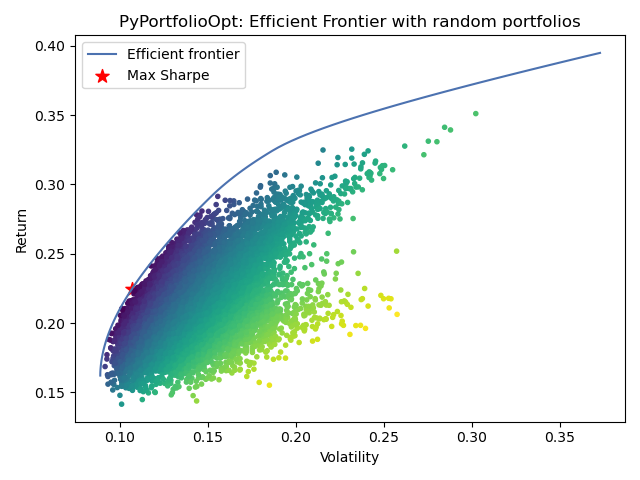
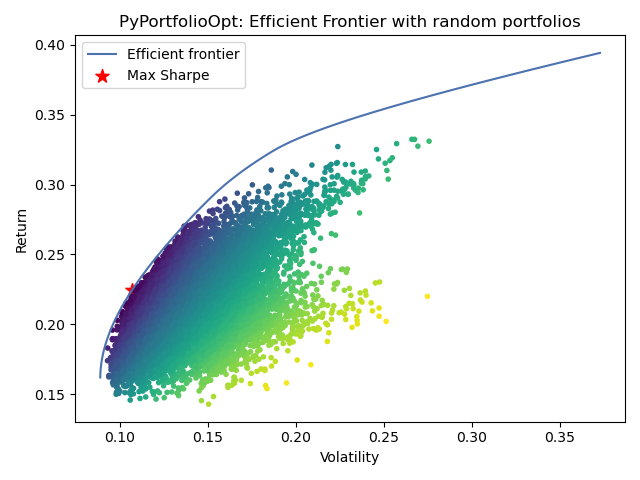
portfolio optimizer updates and fundamentals update for historical prices, gaps still need to be filled

diff --git a/dataAnalyzerService/masterAnalyzer.py b/dataAnalyzerService/masterAnalyzer.py
@@ -7,6 +7,7 @@ from dataAnalyzerService.stockstatcalculations import *
 import numpy as np
 import time
 import datetime
+import yfinance as yf
 
 finnhub_client = finnhub.Client(api_key=FINNHUB_API_KEY)
 
@@ -160,6 +161,104 @@ def build_master(ticker):
     print(quarterly_statementsDump)
     # print(quarterly_statementsDumpHtml)
     # print(type(quarterly_statementsDumpHtml))
+
+    statementDate19 = quarterly_statementsDump.iloc[0][0]
+    statementDate19datetime = datetime.datetime.strptime(statementDate19, '%Y-%m-%d')
+    statementDate18 = quarterly_statementsDump.iloc[0][1]
+    statementDate18datetime = datetime.datetime.strptime(statementDate18, '%Y-%m-%d')
+    statementDate17 = quarterly_statementsDump.iloc[0][2]
+    statementDate17datetime = datetime.datetime.strptime(statementDate17, '%Y-%m-%d')
+    statementDate16 = quarterly_statementsDump.iloc[0][3]
+    statementDate16datetime = datetime.datetime.strptime(statementDate16, '%Y-%m-%d')
+    statementDate15 = quarterly_statementsDump.iloc[0][4]
+    statementDate15datetime = datetime.datetime.strptime(statementDate15, '%Y-%m-%d')
+    statementDate14 = quarterly_statementsDump.iloc[0][5]
+    statementDate14datetime = datetime.datetime.strptime(statementDate14, '%Y-%m-%d')
+    statementDate13 = quarterly_statementsDump.iloc[0][6]
+    statementDate13datetime = datetime.datetime.strptime(statementDate13, '%Y-%m-%d')
+    statementDate12 = quarterly_statementsDump.iloc[0][7]
+    statementDate12datetime = datetime.datetime.strptime(statementDate12, '%Y-%m-%d')
+    statementDate11 = quarterly_statementsDump.iloc[0][8]
+    statementDate11datetime = datetime.datetime.strptime(statementDate11, '%Y-%m-%d')
+    statementDate10 = quarterly_statementsDump.iloc[0][9]
+    statementDate10datetime = datetime.datetime.strptime(statementDate10, '%Y-%m-%d')
+    statementDate9 = quarterly_statementsDump.iloc[0][10]
+    statementDate9datetime = datetime.datetime.strptime(statementDate9, '%Y-%m-%d')
+    statementDate8 = quarterly_statementsDump.iloc[0][11]
+    statementDate8datetime = datetime.datetime.strptime(statementDate8, '%Y-%m-%d')
+    statementDate7 = quarterly_statementsDump.iloc[0][12]
+    statementDate7datetime = datetime.datetime.strptime(statementDate7, '%Y-%m-%d')
+    statementDate6 = quarterly_statementsDump.iloc[0][13]
+    statementDate6datetime = datetime.datetime.strptime(statementDate6, '%Y-%m-%d')
+    statementDate5 = quarterly_statementsDump.iloc[0][14]
+    statementDate5datetime = datetime.datetime.strptime(statementDate5, '%Y-%m-%d')
+    statementDate4 = quarterly_statementsDump.iloc[0][15]
+    statementDate4datetime = datetime.datetime.strptime(statementDate4, '%Y-%m-%d')
+    statementDate3 = quarterly_statementsDump.iloc[0][16]
+    statementDate3datetime = datetime.datetime.strptime(statementDate3, '%Y-%m-%d')
+    statementDate2 = quarterly_statementsDump.iloc[0][17]
+    statementDate2datetime = datetime.datetime.strptime(statementDate2, '%Y-%m-%d')
+    statementDate1 = quarterly_statementsDump.iloc[0][18]
+    statementDate1datetime = datetime.datetime.strptime(statementDate1, '%Y-%m-%d')
+    statementDate = quarterly_statementsDump.iloc[0][19]
+    statementDatedatetime = datetime.datetime.strptime(statementDate, '%Y-%m-%d')
+    print(statementDate19)
+    print(statementDate18)
+    print(statementDate17)
+    print(statementDate16)
+    print(statementDate15)
+    print(statementDate14)
+    print(statementDate13)
+    print(statementDate12)
+    print(statementDate11)
+    print(statementDate10)
+    print(statementDate9)
+    print(statementDate8)
+    print(statementDate7)
+    print(statementDate6)
+    print(statementDate5)
+    print(statementDate4)
+    print(statementDate3)
+    print(statementDate2)
+    print(statementDate1)
+    print(statementDate)
+
+    ohlc = yf.download(ticker, period="max")
+    #print(ohlc)
+    prices = ohlc["Adj Close"].dropna(how="all")
+    #prices.index.name = 'Date'
+    print(prices.tail())
+
+    # prices2 = pd.date(data=prices)
+    # print(prices2)
+
+    # prices.index.dt.day = pd.to_datetime(prices['Date'])
+    # r = pd.date_range(start=prices.dt.min(), end=prices.dt.max())
+    # print(r)
+
+    # for date in prices:
+    #     if (prices['Date'][i] - prices['Date'][i-1]).days == 1:
+
+
+    statementDatesList = [statementDate19, statementDate18, statementDate17, statementDate16, statementDate15, statementDate14, statementDate13, statementDate12, statementDate11, statementDate10, statementDate9, statementDate8, statementDate7, statementDate6, statementDate5, statementDate4, statementDate3, statementDate2, statementDate1, statementDate]
+    statementDatePrices = []
+
+    checkpoint = []
+
+    for i in statementDatesList:
+        if str(i) in list(prices.keys()):
+            checkpoint = prices[str(i)]
+        try:
+            statementDatePrices.append(prices[str(i)])
+        except Exception:
+            statementDatePrices.append(checkpoint)
+
+    data = [statementDatesList, statementDatePrices]
+
+    intermediate_dictionary = {'statementDatesList':statementDatesList, 'statementDatePrices':statementDatePrices}
+    df = pd.DataFrame(intermediate_dictionary)
+    print(df)
+    print(statementDatePrices)
 
     ## tm19  VARIABLES
     # Income Statement Variables for tm19
@@ -615,17 +714,17 @@ def build_master(ticker):
     weightedAvgCommShrsOutstanding19 = (
             (float(commonStockSharesOutstanding19) + float(commonStockSharesOutstanding19) + float(
                 commonStockSharesOutstanding19) + float(commonStockSharesOutstanding19)) / 4)
-    statementDate19 = quarterly_statementsDump.iloc[0][1]
-    statementDate19datetime = datetime.datetime.strptime(statementDate19, '%Y-%m-%d' )
-    print(statementDate19)
-    statementsDateUnix19 = int(time.mktime(statementDate19datetime.timetuple()))
-    print(statementsDateUnix19)
-    quoteUnformatted19request = finnhub_client.stock_candles(ticker, 'D', statementsDateUnix19, statementsDateUnix19)
-    print(quoteUnformatted19request)
+
+    # print(statementDate19)
+    # statementsDateUnix19 = int(time.mktime(statementDate19datetime.timetuple()))
+    # print(statementsDateUnix19)
+    # quoteUnformatted19request = finnhub_client.stock_candles(ticker, 'D', statementsDateUnix19, statementsDateUnix19)
+    # print(quoteUnformatted19request)
     # quoteUnformatted19df = pd.DataFrame.from_dict(quoteUnformatted19request[0])
     # print(quoteUnformatted19df)
     # quoteUnformatted19 = quoteUnformatted19df.iloc[0]
     # print(quoteUnformatted19)
+    quoteUnformatted19 = quoteUnformatted
 
     marketCap19 = calculateMarketCap(quoteUnformatted19, commonStockSharesOutstanding19)
     basicEPS19 = calculateBasicEPS(tTMnetIncome19, tTMpreferredDivs19, weightedAvgCommShrsOutstanding19)

diff --git a/portfolioAnalysis/portopttry3.py b/portfolioAnalysis/portopttry3.py
@@ -5,22 +5,94 @@ import numpy as np
 import pypfopt
 from pypfopt import risk_models
 from pypfopt import plotting
+from pypfopt import expected_returns
+from pypfopt import EfficientFrontier
 
 tickers = ["MSFT", "AMZN", "KO", "MA", "COST",
            "LUV", "XOM", "PFE", "JPM", "UNH",
-           "ACN", "DIS", "GILD", "F", "TSLA"]
+           "ACN", "DIS", "GILD", "F", "TSLA", "AAP", "MARA"]
+
+def optimize(tickers):
+    #Retreive historical price data
+    ohlc = yf.download(tickers, period="max")
+    prices = ohlc["Adj Close"].dropna(how="all")
+    print(prices.tail())
 
 
-#Retreive historical price data
-ohlc = yf.download(tickers, period="max")
-prices = ohlc["Adj Close"].dropna(how="all")
-print(prices.tail())
+    #Plot Historical Prices
+    # prices[prices.index >= "2008-01-01"].plot(figsize=(15,10));
+    # plt.show()
+
+    #Calculating Covariance Matrix, using Ledoit-Wolf shrinkage, which reduces the extreme values in the covariance matrix
+    sample_cov = risk_models.sample_cov(prices, frequency=252)
+    print(sample_cov)
+
+    # Heat Map of Cov Matrix
+    S = risk_models.CovarianceShrinkage(prices).ledoit_wolf()
+    plotting.plot_covariance(S, plot_correlation=True);
+    plt.show()
+    plt.savefig("covMatrix.png")
+
+    # Calculating mu (eRi) for the tickers using capm returns, not historical mean returns
+    mu = expected_returns.capm_return(prices)
+    print(mu)
+
+    mu.plot.barh(figsize=(10,6));
+    plt.show()
+    plt.savefig("expReturns.png")
+
+    #Calculating Long only Minimum Variance Portfolio (GMVP)
+    S = risk_models.CovarianceShrinkage(prices).ledoit_wolf()
+
+    # Weights between 0 nad 1 Since we don't allow shorting
+    ef = EfficientFrontier(mu, S, weight_bounds=(0, 1))
+    ef.min_volatility()
+    weights_min_volatility_long_only = ef.clean_weights()
+    print(weights_min_volatility_long_only)
+
+    pd.Series(weights_min_volatility_long_only).plot.barh();
+    plt.show()
+    plt.savefig("longOnlyGMVP.png")
 
 
-#Plot Historical Prices
-# prices[prices.index >= "2008-01-01"].plot(figsize=(15,10));
-# plt.show()
+    #Calculating Long/Short Minimum Variance (GMVP)
+    S = risk_models.CovarianceShrinkage(prices).ledoit_wolf()
 
-#Calculating Covariance Matrix
-sample_cov = risk_models.sample_cov(prices, frequency=252)
-sample_cov
+    # You don't have to provide expected returns in this case
+    ef = EfficientFrontier(None, S, weight_bounds=(None, None))
+    ef.min_volatility()
+    weights_min_volatility_long_short = ef.clean_weights()
+    print(weights_min_volatility_long_short)
+
+    pd.Series(weights_min_volatility_long_short).plot.barh();
+    plt.show()
+    plt.savefig("longShortGMVP.png")
+
+    # Calculating Long only Tangency Portfolio (Max Sharpe)
+    S = risk_models.CovarianceShrinkage(prices).ledoit_wolf()
+
+    # Weights between 0 nad 1 Since we don't allow shorting
+    ef = EfficientFrontier(mu, S, weight_bounds=(0, 1))
+    ef.max_sharpe()
+    weights_max_sharpe_long_only = ef.clean_weights()
+    print(weights_max_sharpe_long_only)
+
+    pd.Series(weights_max_sharpe_long_only).plot.barh();
+    plt.show()
+    plt.savefig("longOnlyMaxSharpe.png")
+
+    # Calculating Long/Short Tangency Portfolio (Max Sharpe)
+    S = risk_models.CovarianceShrinkage(prices).ledoit_wolf()
+
+    # You don't have to provide expected returns in this case
+    ef = EfficientFrontier(None, S, weight_bounds=(-1, 1))
+    ef.max_sharpe()
+    weights_max_sharpe_long_short = ef.clean_weights()
+    print(weights_max_sharpe_long_short)
+
+    pd.Series(weights_max_sharpe_long_short).plot.barh();
+    plt.show()
+    plt.savefig("longShortMaxSharpe.png")
+
+
+optimize(tickers)
